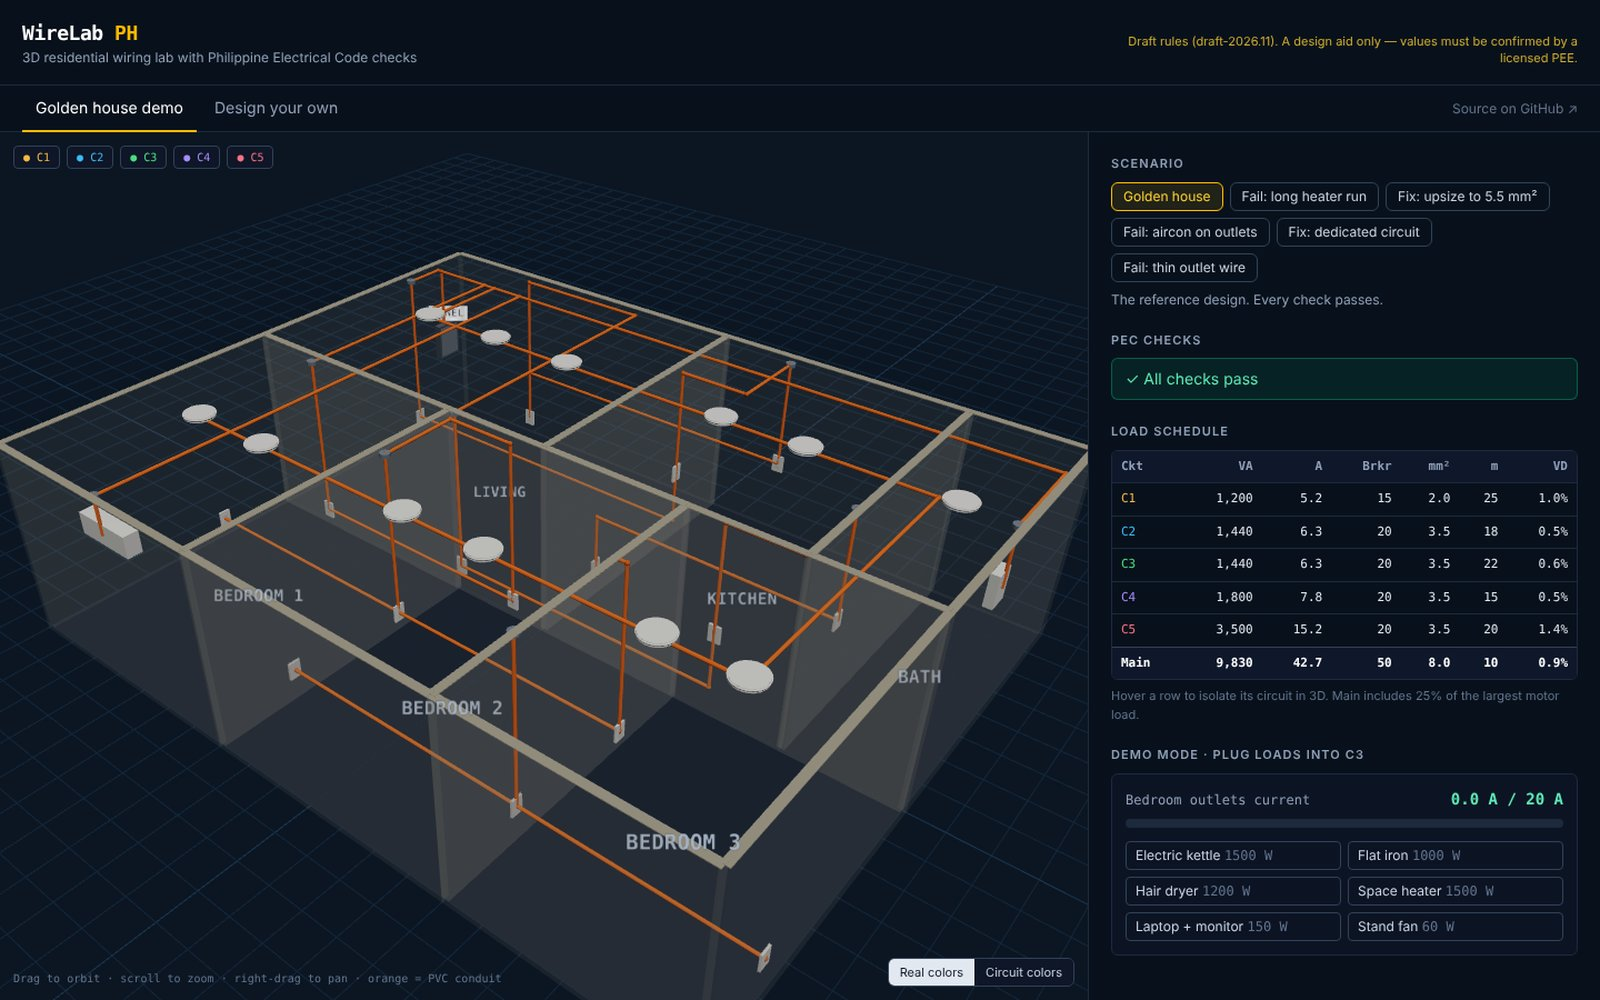
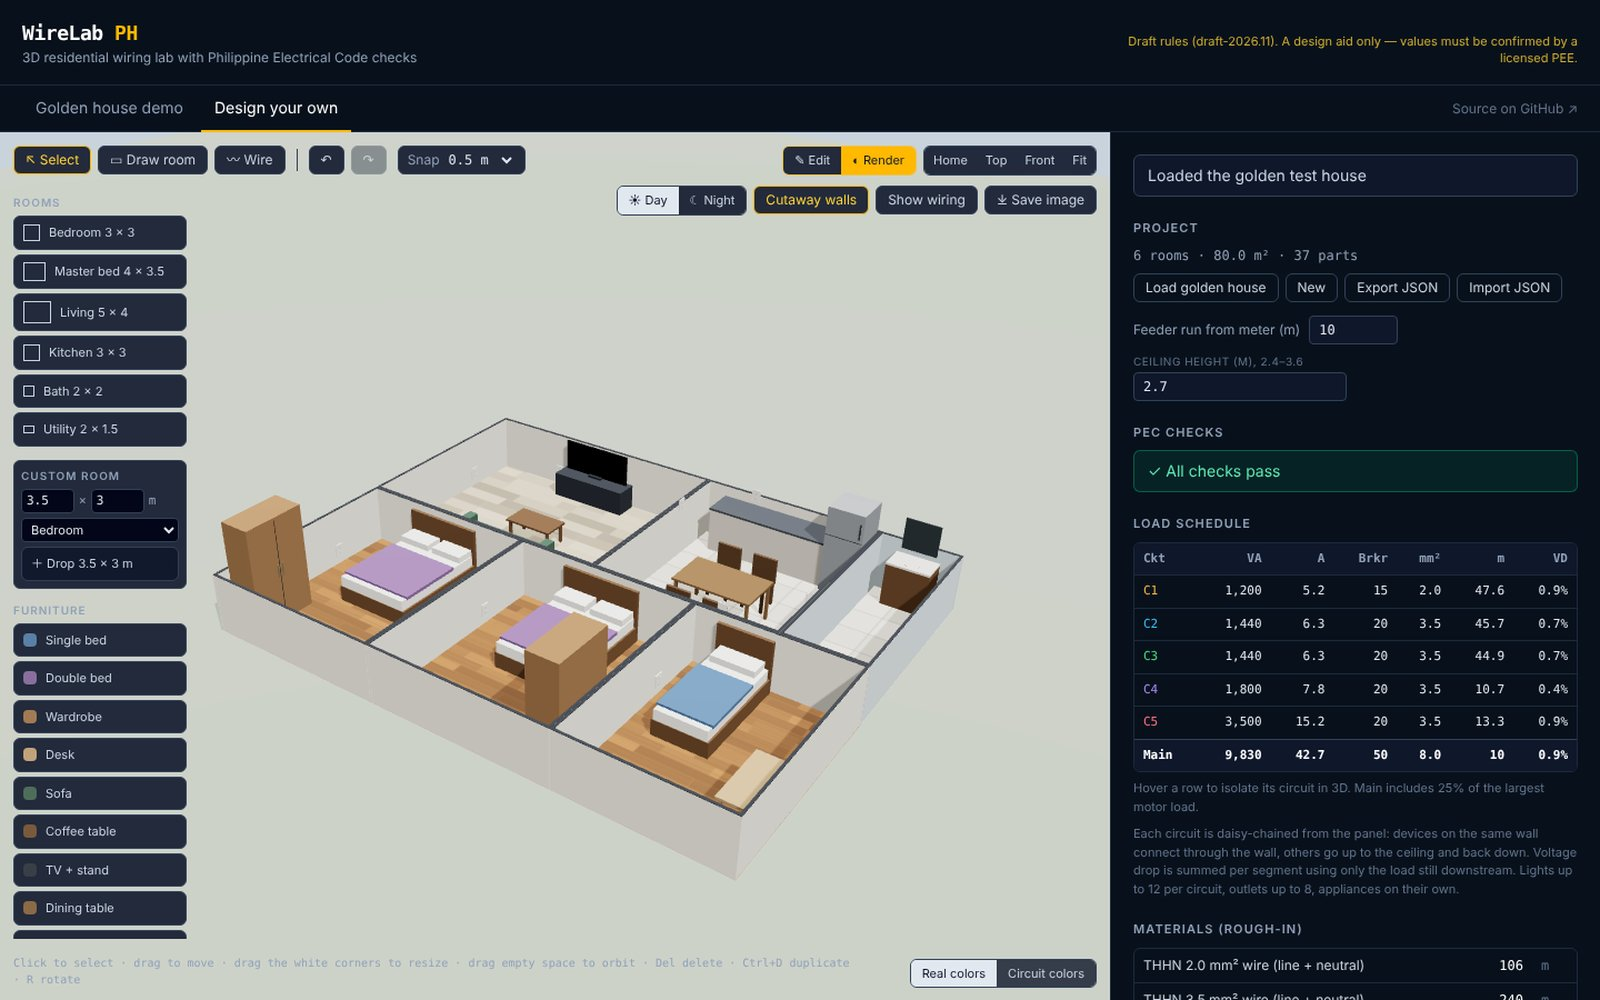
Update WireLab PH card: render screenshot and description
Claude-Session: https://claude.ai/code/session_01Py1rjXPv9EogSNrHDjH2JN

diff --git a/projects.html b/projects.html
@@ -135,7 +135,7 @@ main [style*="background: var(--c121212)"]:hover{border-color:var(--c3a3a3a)}
 <div style="padding: 18px; display: flex; flex-direction: column; gap: 10px">
 <div style="display: flex; justify-content: space-between; gap: 12px; font-size: 13px; letter-spacing: 1px; color: var(--c858585)"><span>3D · ENGINEERING · WEB APP</span><span>2026</span></div>
 <h3 class="pname" style="margin: 0; font-size: 20px; font-weight: 400; color: var(--ce5e5e5)">WireLab PH</h3>
-<p style="margin: 0; color: var(--ca3a3a3)">Browser 3D wiring lab for Filipino electrical engineers. A house is wired into color-coded circuits, and a Philippine Electrical Code engine computes the load schedule, breaker and wire sizes and voltage drop, flags violations with the fix, and demos a breaker tripping under overload. Built backward from a spec: a golden test house with exact expected values drives the automated tests.</p>
+<p style="margin: 0; color: var(--ca3a3a3)">Browser 3D house designer and wiring lab for Filipino electrical engineers. Lay out rooms and furniture Tinkercad-style, wire daisy-chained circuits in conduit, and a Philippine Electrical Code engine computes the load schedule, breaker and wire sizes, per-segment voltage drop and a materials list. Render mode adds shadows, day/night lighting and image export. Built backward from a spec, with 62 automated tests.</p>
 <div style="display: flex; flex-wrap: wrap; gap: 6px"><span style="background: var(--c262626); padding: 0 8px; border-radius: 3px; font-size: 14px; color: var(--ccfcfcf)">TypeScript</span><span style="background: var(--c262626); padding: 0 8px; border-radius: 3px; font-size: 14px; color: var(--ccfcfcf)">Next.js</span><span style="background: var(--c262626); padding: 0 8px; border-radius: 3px; font-size: 14px; color: var(--ccfcfcf)">React Three Fiber</span><span style="background: var(--c262626); padding: 0 8px; border-radius: 3px; font-size: 14px; color: var(--ccfcfcf)">Three.js</span><span style="background: var(--c262626); padding: 0 8px; border-radius: 3px; font-size: 14px; color: var(--ccfcfcf)">Tailwind</span><span style="background: var(--c262626); padding: 0 8px; border-radius: 3px; font-size: 14px; color: var(--ccfcfcf)">Vitest</span><span style="background: var(--c262626); padding: 0 8px; border-radius: 3px; font-size: 14px; color: var(--ccfcfcf)">GitHub Actions</span></div>
 <div style="display: flex; gap: 18px; padding-top: 6px; font-size: 14px"><a href="https://ashweak.github.io/wirelab/" target="_blank" rel="noopener">live demo ↗</a><a href="https://github.com/ashweak/wirelab" target="_blank" rel="noopener">github ↗</a></div>
 </div>

diff --git a/index.html b/index.html
@@ -210,7 +210,7 @@ main [style*="background: var(--c121212)"]:hover{border-color:var(--c3a3a3a)}
 <img src="assets/img/project-wirelab.jpg" alt="WireLab PH screenshot" loading="lazy" style="flex: 0 0 auto; width: 110px; height: 72px; object-fit: cover; object-position: top; background: var(--c262626)">
 <div style="flex: 1; min-width: 0; display: flex; flex-direction: column; gap: 6px">
 <div style="display: flex; justify-content: space-between; gap: 12px"><h3 style="margin: 0; font-size: 18px; font-weight: 400; color: var(--ce0e0e0)">WireLab PH</h3><a href="https://ashweak.github.io/wirelab/" target="_blank" rel="noopener" aria-label="Open WireLab PH live demo">↗</a></div>
-<p style="margin: 0; color: var(--ca3a3a3)">3D residential wiring lab with Philippine Electrical Code checks: load schedule, breaker and wire sizing, voltage drop and a breaker-trip demo.</p>
+<p style="margin: 0; color: var(--ca3a3a3)">3D house designer and wiring lab with Philippine Electrical Code checks, a materials list and a day/night render mode.</p>
 <div style="display: flex; flex-wrap: wrap; gap: 6px"><span style="background: var(--c262626); padding: 0 7px; border-radius: 3px; font-size: 13px; color: var(--ccfcfcf)">TypeScript</span><span style="background: var(--c262626); padding: 0 7px; border-radius: 3px; font-size: 13px; color: var(--ccfcfcf)">Next.js</span><span style="background: var(--c262626); padding: 0 7px; border-radius: 3px; font-size: 13px; color: var(--ccfcfcf)">Three.js</span></div>
 
 <div style="display: flex; gap: 16px; font-size: 14px"><a href="https://ashweak.github.io/wirelab/" target="_blank" rel="noopener">live demo ↗</a><a href="https://github.com/ashweak/wirelab" target="_blank" rel="noopener">github ↗</a></div></div>
